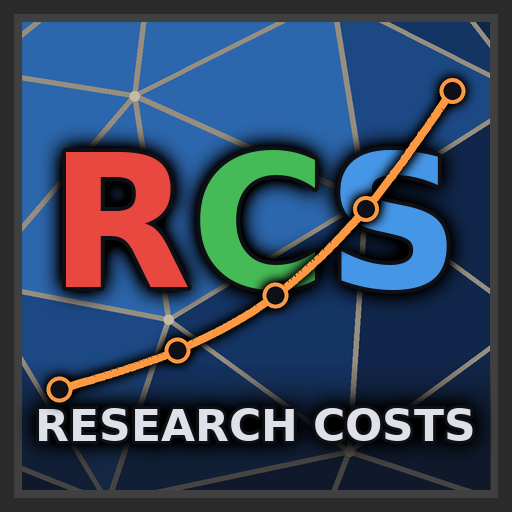
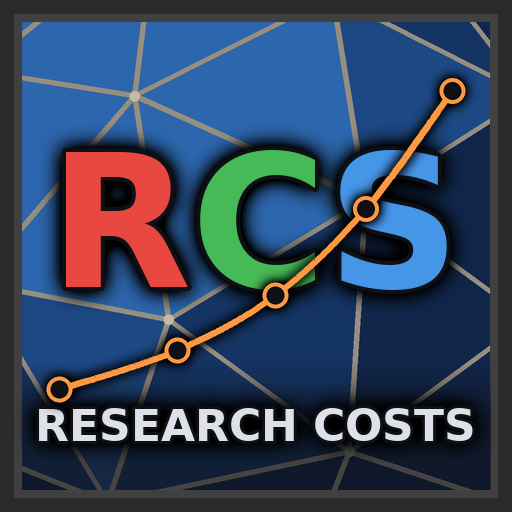
Thumbnail: slightly thinner curve line (8 -> 6.5 px); dot size unchanged

diff --git a/tools/gen_thumbnail.py b/tools/gen_thumbnail.py
@@ -62,7 +62,8 @@ LETTER_SIZE = 185
 SUBTITLE_SIZE = 44
 
 CURVE = (255, 152, 66)
-CURVE_WIDTH = 8
+CURVE_WIDTH = 6.5
+CURVE_DOT_RADIUS = 12.8  # the control-point rings, independent of the line
 # The curve: low and flat on the left, climbing to the top right, as a
 # "hard late game" curve looks on the page's log scale. Normalised 0..1.
 CURVE_POINTS = [(0.0, 0.16), (0.3, 0.26), (0.55, 0.40), (0.78, 0.62), (1.0, 0.92)]
@@ -199,8 +200,8 @@ def curve_layer():
     span = hi - lo
     pad = span * 0.08
     at = lambda x, y: (lo + pad + (span - 2 * pad) * x, hi - pad - (span - 2 * pad) * y)
-    d.line([at(x, y) for x, y in smooth(CURVE_POINTS)], fill=CURVE + (255,), width=CURVE_WIDTH * SUPERSAMPLE, joint="curve")
-    r = CURVE_WIDTH * SUPERSAMPLE * 1.6
+    d.line([at(x, y) for x, y in smooth(CURVE_POINTS)], fill=CURVE + (255,), width=round(CURVE_WIDTH * SUPERSAMPLE), joint="curve")
+    r = CURVE_DOT_RADIUS * SUPERSAMPLE
     for x, y in CURVE_POINTS:
         cx, cy = at(x, y)
         d.ellipse([cx - r, cy - r, cx + r, cy + r], fill=INK + (255,), outline=CURVE + (255,), width=4 * SUPERSAMPLE)
